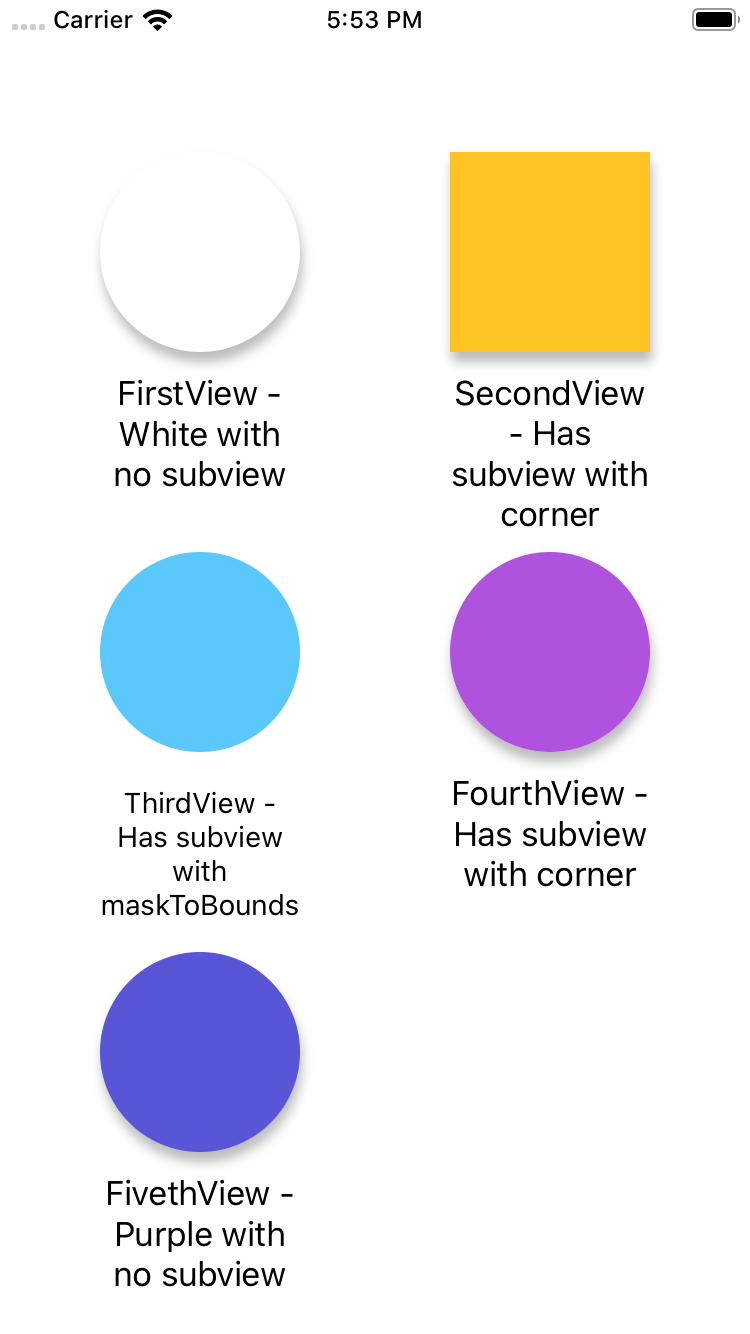
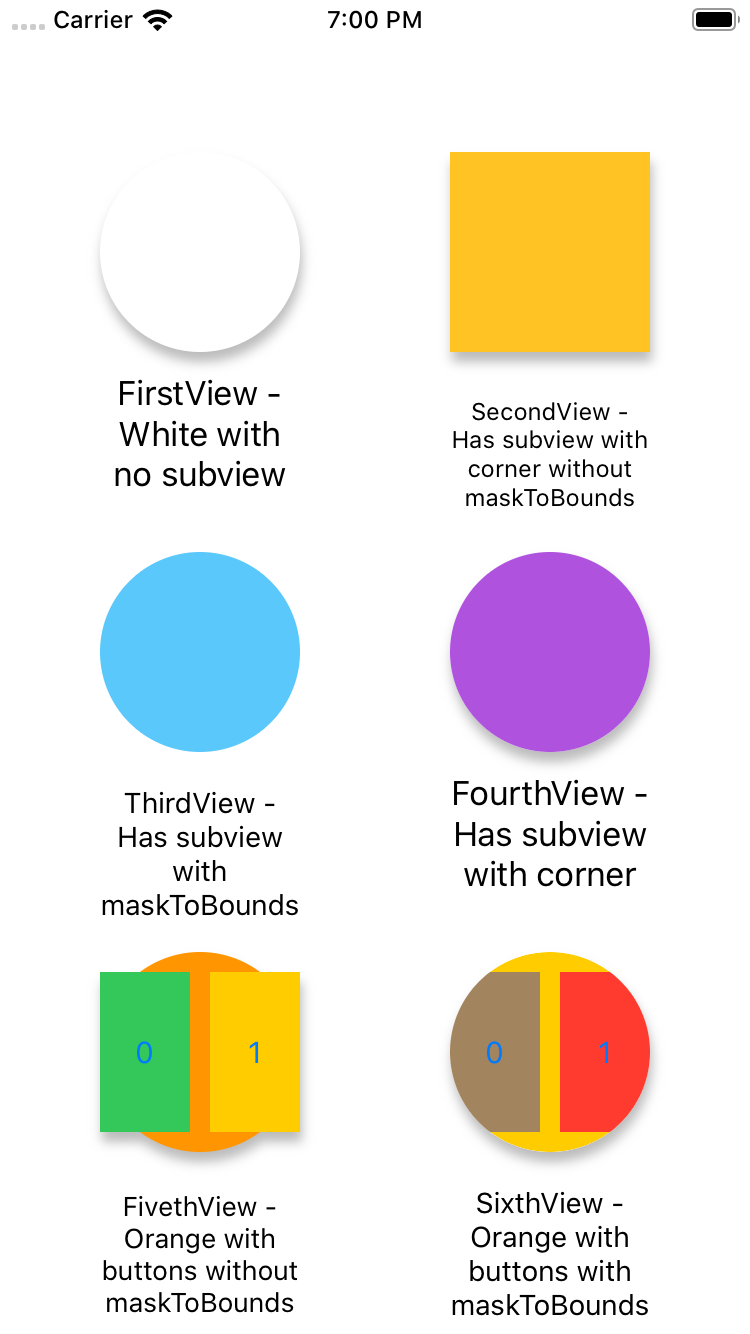
fix

diff --git a/RadiusShadowDemo/ViewController.m b/RadiusShadowDemo/ViewController.m
@@ -16,6 +16,8 @@
 @property (weak, nonatomic) IBOutlet UIView *fourthView;
 @property (weak, nonatomic) IBOutlet UIImageView *fourthSubview;
 @property (weak, nonatomic) IBOutlet UIView *fivethView;
+@property (weak, nonatomic) IBOutlet UIView *sixthView;
+@property (weak, nonatomic) IBOutlet UIView *sixthSubview;
 
 @end
 
@@ -51,6 +53,13 @@
     self.fivethView.layer.shadowOffset = CGSizeMake(1, 5);
     self.fivethView.layer.shadowOpacity = 0.8;
     self.fivethView.layer.shadowColor = [UIColor lightGrayColor].CGColor;
+    
+    self.sixthView.layer.cornerRadius = 50;
+    self.sixthView.layer.shadowOffset = CGSizeMake(1, 5);
+    self.sixthView.layer.shadowOpacity = 0.8;
+    self.sixthView.layer.shadowColor = [UIColor lightGrayColor].CGColor;
+    self.sixthSubview.layer.cornerRadius = 50;
+    self.sixthSubview.layer.masksToBounds = YES;
 }
 
 

diff --git a/README.md b/README.md
@@ -1,3 +1,3 @@
 ## RadiusShadowDemo
 
-![image](Demo.png)
+![Demo.png](Demo.png)
